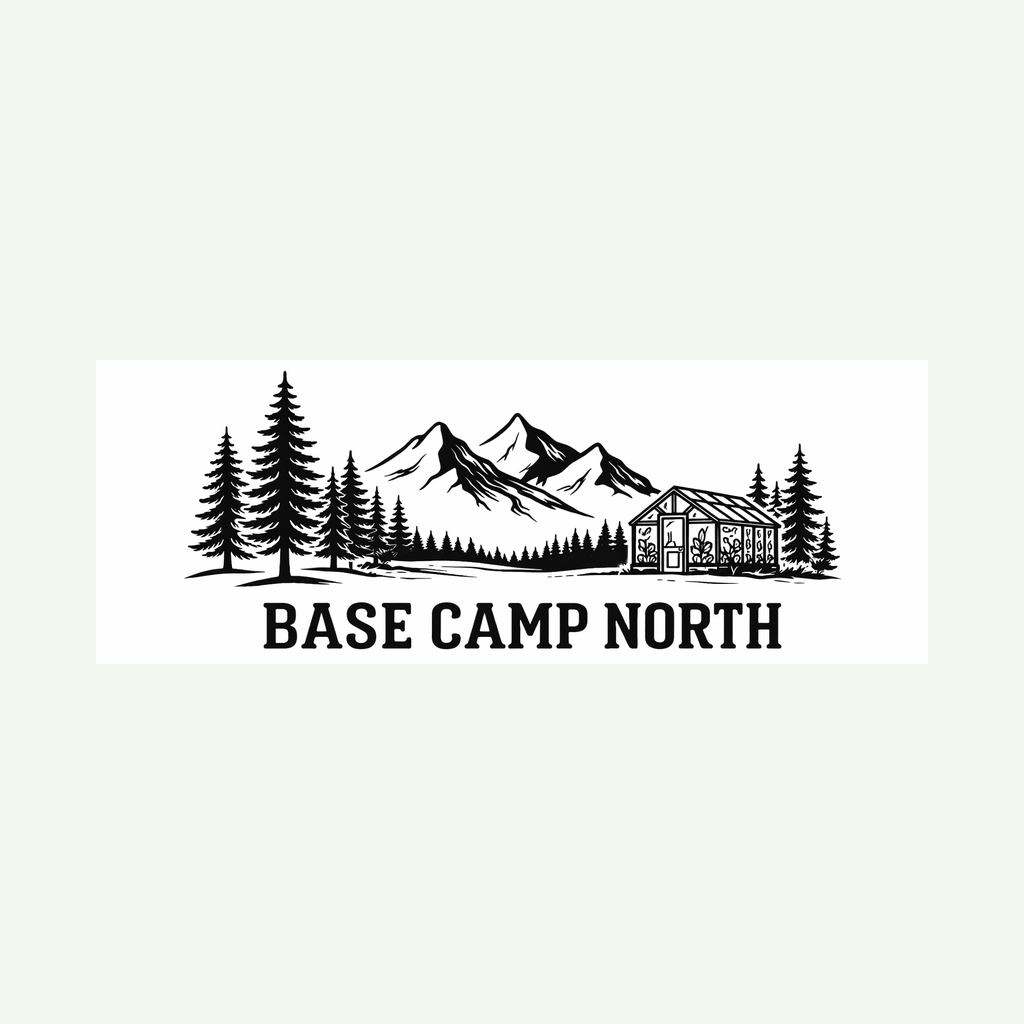
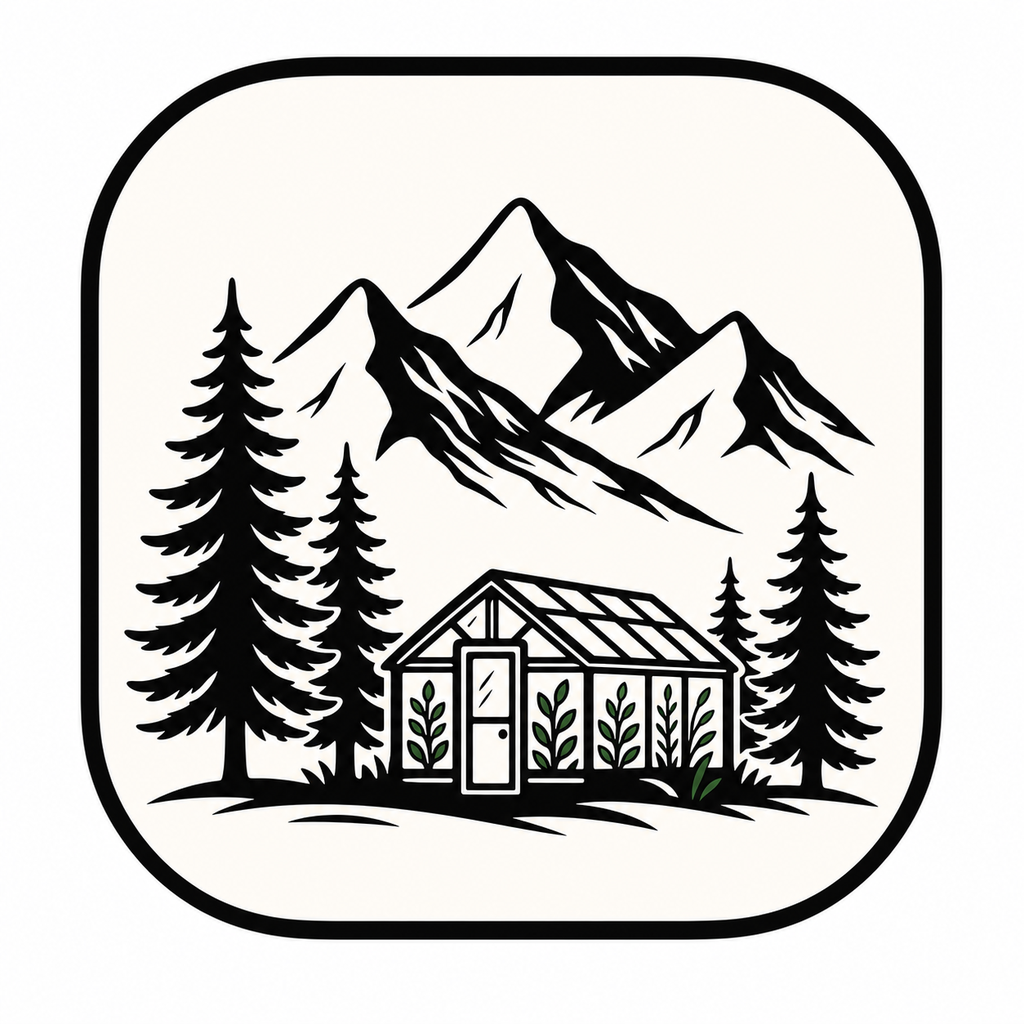
Add BCN brand assets to app and web

Changed region(s): [[0.0625, 0.0312, 0.9375, 0.9375], [0.2812, 0.3125, 0.3125, 0.3438]]

diff --git a/web-dashboard/src/styles.css b/web-dashboard/src/styles.css
@@ -75,6 +75,14 @@ a {
   padding: clamp(28px, 5vw, 56px);
 }
 
+.brand-mark {
+  display: block;
+  height: auto;
+  margin: 0 0 26px;
+  max-width: min(420px, 100%);
+  mix-blend-mode: multiply;
+}
+
 .hero-lede {
   color: #324832;
   font-size: clamp(1.2rem, 2vw, 1.65rem);
@@ -122,6 +130,18 @@ a {
   padding: 28px;
   position: relative;
   overflow: hidden;
+}
+
+.hero-kit-image {
+  aspect-ratio: 4 / 3;
+  border: 1px solid rgba(244, 247, 238, 0.22);
+  border-radius: 8px;
+  display: block;
+  margin: 16px 0 22px;
+  object-fit: cover;
+  position: relative;
+  width: 100%;
+  z-index: 1;
 }
 
 .hero-card::after {
@@ -175,10 +195,20 @@ a {
 
 .about-panel {
   background: #fbfdf8;
+  overflow: hidden;
 }
 
 .about-panel h2 {
   color: #113d22;
+}
+
+.about-image {
+  aspect-ratio: 16 / 10;
+  border-radius: 6px;
+  display: block;
+  margin: 0 0 18px;
+  object-fit: cover;
+  width: 100%;
 }
 
 .reviews-section,

diff --git a/web-dashboard/src/main.js b/web-dashboard/src/main.js
@@ -81,6 +81,7 @@ function renderSignIn() {
     <main class="marketing-page">
       <section class="hero">
         <div class="hero-copy">
+          <img class="brand-mark" src="/images/bcn-logo-with-text.png" alt="Base Camp North" />
           <p class="eyebrow">Base Camp North</p>
           <h1>BCN Plant Scout</h1>
           <p class="hero-lede">A rugged field notebook for tree nursery work: capture plant photos, GPS points, return notes, seed sources, and synced records you can review from the computer.</p>
@@ -92,6 +93,7 @@ function renderSignIn() {
         </div>
         <div class="hero-card" aria-label="BCN Plant Scout feature preview">
           <p class="eyebrow">Field Kit</p>
+          <img class="hero-kit-image" src="/images/scout-field-kit.webp" alt="Field notebook kit with scouting tools" />
           <div class="notebook-lines">
             <span>Photo records with GPS</span>
             <span>Return and harvest notes</span>
@@ -107,16 +109,19 @@ function renderSignIn() {
 
       <section class="about-grid">
         <article class="panel about-panel">
+          <img class="about-image" src="/images/scout-seedling-tray.webp" alt="Seedling tray for nursery work" />
           <p class="eyebrow">About the app</p>
           <h2>Built for finding the plant again.</h2>
           <p>BCN Plant Scout turns a field photo into a useful nursery record: what it is, where it is, why it matters, when to come back, and whether it is ready for seeds, cuttings, fruit, nuts, or scion wood.</p>
         </article>
         <article class="panel about-panel">
+          <img class="about-image" src="/images/scout-nut-pile.webp" alt="Collected nuts and seeds" />
           <p class="eyebrow">Desktop companion</p>
           <h2>Scout in the field. Review at the desk.</h2>
           <p>Use the mobile app outside, then open the web dashboard later to review photos, map points, return dates, and collection notes on a bigger screen.</p>
         </article>
         <article class="panel about-panel">
+          <img class="about-image" src="/images/scout-berry-branch.webp" alt="Berry branch ready for field scouting" />
           <p class="eyebrow">Base Camp North</p>
           <h2>Nursery work, not just plant ID.</h2>
           <p>This is for real scouting: native trees, seed collecting, berry checks, return trips, and building a better memory of the land one observation at a time.</p>

diff --git a/web-dashboard/index.html b/web-dashboard/index.html
@@ -4,6 +4,9 @@
     <meta charset="UTF-8" />
     <meta name="viewport" content="width=device-width, initial-scale=1.0" />
     <title>BCN Plant Scout Dashboard</title>
+    <link rel="icon" href="/favicon.ico" sizes="any" />
+    <link rel="apple-touch-icon" href="/apple-touch-icon.png" />
+    <link rel="manifest" href="/site.webmanifest" />
   </head>
   <body>
     <div id="app"></div>